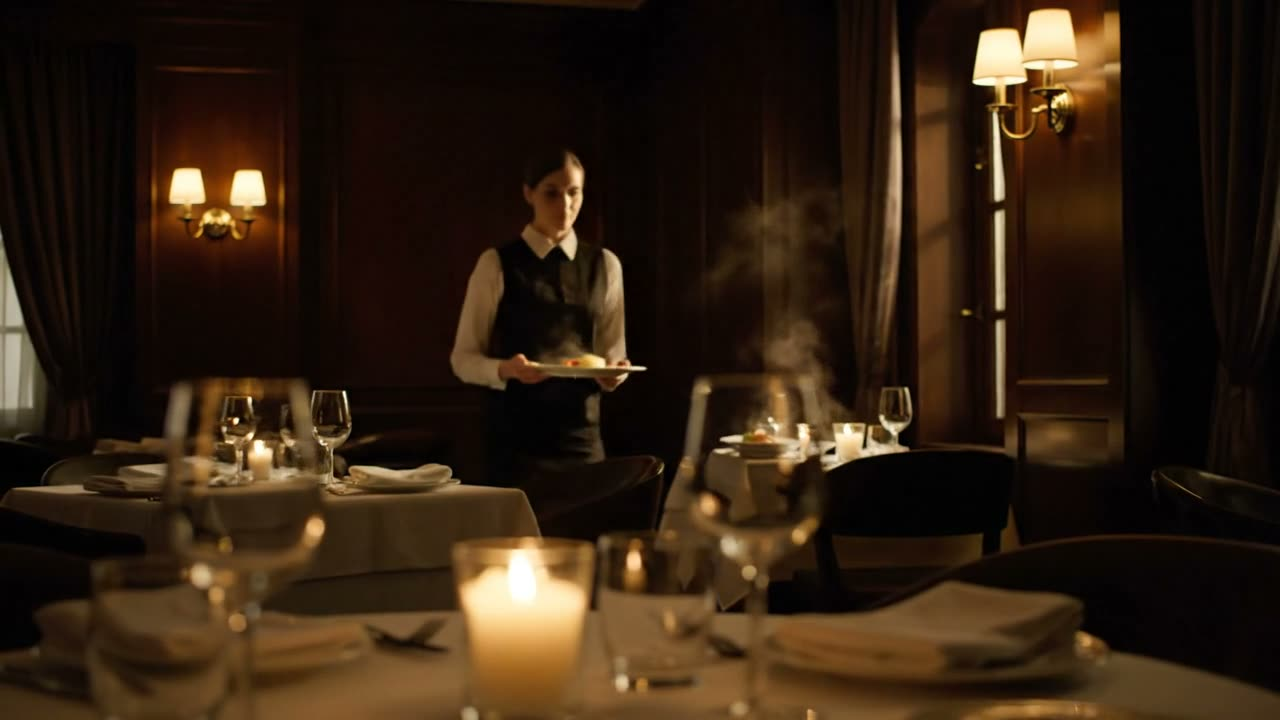
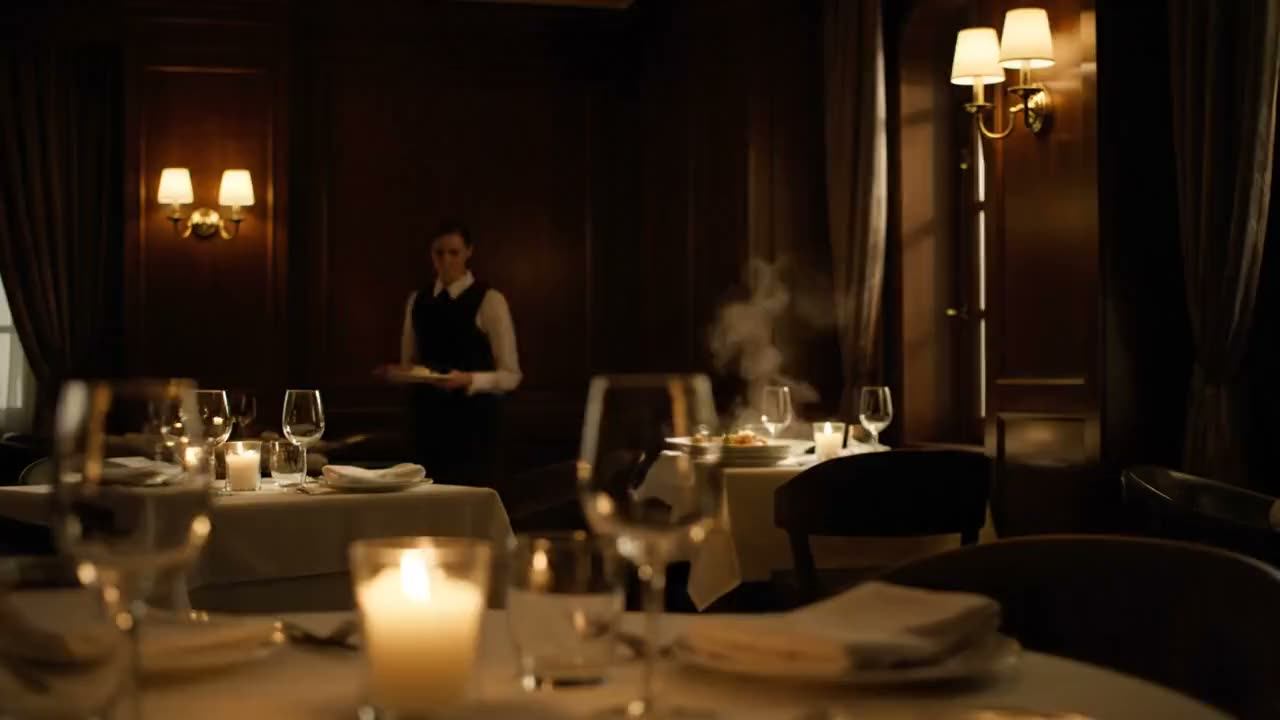
feat(website): light-mode impact pass + CTA/section/triangle/video fixes
Light mode was a dimmed dark theme (additive glows die on white, shadows cut
80%, --shape-strength-boost:2.5 band-aid). Rework it as its own system, plus the
specific fixes flagged in review. Dark mode (:root) is untouched; all theme
work is [html.light]-scoped.

tokens.css (html.light only):
- warm PAPER base (#FBF7F1) + white cards so elevation reads
- real layered, warm-tinted shadows; brand "glow" becomes a warm lift
- deep warm-ink display headings, "sunlight" atmosphere, richer apricot cream
- accent kept AA-safe; crisper borders

Fixes:
- CTA: primary/cta buttons -> solid ink on light (Button.tsx, components.css,
  cookie Accept) - the coral gradient read hot/generic on paper
- Decision-Intelligence section: stronger photo grade (was washed-out) so the
  room reads warm + intentional and the Revenue Pace dashboard has context
- Closing CTA band: the neon coral slab -> a deep warm-espresso close on light
  (consistent with the page's dark bands) + cream primary button
- Speed/Quality/Cost triangle: trust-GREEN convergence core/ring/beams +
  "pick all three" affirmation (the payoff now reads achieved/go, not alarm);
  the three warm edges (constraints) stay warm. Applies in both modes.
- Manifesto ambient video: replace the obvious 8s loop with a continuous ~22s
  narrative - the original clip crossfaded into two new Veo 3 ambient clips
  (busy pass -> the room settles), generated to match the dim-restaurant look.
[…]

diff --git a/src/styles/tokens.css b/src/styles/tokens.css
@@ -185,23 +185,28 @@
    ============================================== */
 
 html.light {
-  /* ─── Foundation ─── */
-  --navy-deep: #FFFFFF;
-  --navy: #FAF7F2;
-  --navy-surface: #F3EEE6;
+  /* ─── Foundation ───
+     Light is its OWN system, not a dimmed dark theme: the page is warm PAPER
+     (not cold #FFF) and cards are pure white, so elevation reads from the
+     surface contrast + real shadows below - the way light UIs earn depth. */
+  --navy-deep: #FBF7F1;   /* warm paper page base (was #FFFFFF, cold) */
+  --navy: #FFFFFF;        /* cards sit brighter than the page → they lift */
+  --navy-surface: #FFFFFF;
 
-  --background: #FFFFFF;
+  --background: #FBF7F1;
   --foreground: #2A2320;
 
-  /* ─── Text Hierarchy ─── */
-  --text-primary: #2A2320;
-  --text-secondary: rgba(42, 35, 32, 0.75);
-  --text-supporting: rgba(42, 35, 32, 0.6);
-  --text-muted: rgba(42, 35, 32, 0.5);
-  --text-faint: rgba(42, 35, 32, 0.15);
-  --muted-grey: #8C7F71;
-  --eyebrow: rgba(42, 35, 32, 0.55);   /* muted warm label on light (warm ink, not coral) */
-  --text-display: #2A2320;             /* display headings = warm ink on light (same as --text-primary) */
+  /* ─── Text Hierarchy ───
+     Deeper warm ink than before → display headings carry real contrast punch
+     on warm paper (the light-mode equivalent of dark's bright display). */
+  --text-primary: #241D17;
+  --text-secondary: rgba(36, 29, 23, 0.78);
+  --text-supporting: rgba(36, 29, 23, 0.62);
+  --text-muted: rgba(36, 29, 23, 0.52);
+  --text-faint: rgba(36, 29, 23, 0.16);
+  --muted-grey: #857869;
+  --eyebrow: rgba(36, 29, 23, 0.58);   /* warm label on light (warm ink, not coral) */
+  --text-display: #1E1711;             /* deep warm ink display headings → more punch in light */
 
   /* ─── Surface Transparency Scale ─── */
   --surface-faint: rgba(42, 35, 32, 0.02);
@@ -209,40 +214,45 @@ html.light {
   --surface-hover: rgba(42, 35, 32, 0.05);
   --surface-emphasis: rgba(42, 35, 32, 0.08);
 
-  /* ─── Shadows & Glows (softer for light) ─── */
-  --glow-blue: 0 0 40px rgba(255, 92, 77, 0.12);
-  --glow-strong: 0 0 60px rgba(255, 92, 77, 0.15), 0 0 100px rgba(233, 162, 74, 0.06);
-  --shadow-card: 0 4px 24px rgba(0, 0, 0, 0.06);
-  --shadow-xl: 0 25px 50px -12px rgba(0, 0, 0, 0.1);
+  /* ─── Shadows & Glows ───
+     On white, additive glows vanish - so light earns depth from layered,
+     warm-tinted SHADOWS (brown, not black), and the brand "glow" becomes a
+     soft warm LIFT under CTAs/cards instead of an invisible halo. */
+  --glow-blue: 0 18px 38px -12px rgba(224, 62, 72, 0.36);
+  --glow-strong: 0 26px 52px -18px rgba(224, 62, 72, 0.34), 0 10px 24px -10px rgba(233, 162, 74, 0.24);
+  --shadow-card: 0 1px 2px rgba(74, 49, 32, 0.06), 0 14px 30px -12px rgba(74, 49, 32, 0.20), 0 36px 66px -28px rgba(74, 49, 32, 0.18);
+  --shadow-xl: 0 40px 82px -28px rgba(74, 49, 32, 0.28), 0 16px 36px -16px rgba(74, 49, 32, 0.18);
 
   /* ─── Borders ─── */
-  --border-default: rgba(42, 35, 32, 0.1);
+  --border-default: rgba(42, 35, 32, 0.14);
   --border-hover: rgba(255, 92, 77, 0.3);
   --border-emphasis: rgba(42, 35, 32, 0.15);
 
-  /* ─── Background Meshes (light versions) ─── */
-  --bg-mesh: radial-gradient(ellipse 80% 60% at 20% 40%, rgba(255,92,77,0.045) 0%, transparent 60%),
-             radial-gradient(ellipse 60% 50% at 80% 60%, rgba(233,162,74,0.04) 0%, transparent 50%),
-             #FFFFFF;
-  --bg-top-glow: radial-gradient(ellipse 100% 40% at 50% 0%, rgba(255,92,77,0.05) 0%, transparent 60%),
-                 #FFFFFF;
-  --bg-center-glow: radial-gradient(ellipse 60% 50% at 50% 50%, rgba(255,92,77,0.04) 0%, transparent 60%),
-                    #FFFFFF;
+  /* ─── Background Meshes (light) ───
+     Warm paper end-stop + a touch more tint so sections carry ambient warmth
+     (the dark theme's atmosphere), instead of reading as cold flat white. */
+  --bg-mesh: radial-gradient(ellipse 85% 60% at 18% 36%, rgba(255,120,80,0.075) 0%, transparent 60%),
+             radial-gradient(ellipse 65% 55% at 82% 62%, rgba(233,162,74,0.07) 0%, transparent 52%),
+             #FBF7F1;
+  --bg-top-glow: radial-gradient(ellipse 110% 46% at 50% 0%, rgba(255,150,90,0.12) 0%, transparent 62%),
+                 #FBF7F1;
+  --bg-center-glow: radial-gradient(ellipse 65% 55% at 50% 50%, rgba(255,120,80,0.06) 0%, transparent 60%),
+                    #FBF7F1;
 
   /* ─── Semantic UI Tokens ─── */
   --surface: #FFFFFF;
-  --surface-alt: #FAF7F2;
-  --surface-raised: #F3EEE6;
+  --surface-alt: #FBF7F1;
+  --surface-raised: #FFFFFF;     /* raised elements go pure white so they lift off the warm paper */
   --text: var(--text-primary);
   --text-secondary-ui: var(--text-secondary);
   --border: var(--border-default);
   --border-strong: var(--border-emphasis);
-  --shadow-color: rgba(0, 0, 0, 0.08);
+  --shadow-color: rgba(74, 49, 32, 0.16);  /* warm-tinted shadow, not flat black */
   --hover-bg: var(--surface-hover);
-  --link-hover: #C8392A;
-  --accent-warm: #C8392A;        /* deeper warm so eyebrow/link text holds contrast on white */
-  --cream: #F1E6D1;              /* deeper/warmer in light mode so relief zones read against white */
-  --cream-edge: #E6D8BD;
+  --link-hover: #CC3A1E;
+  --accent-warm: #CC3A1E;        /* confident warm accent, kept dark enough to hold AA on white */
+  --cream: #F6E4C4;              /* richer apricot cream → warmer relief rhythm in light */
+  --cream-edge: #EAD3A8;
 
   /* ─── Trust (warm olive) - deeper on white so it holds contrast ─── */
   --trust: #6E7C3A;

diff --git a/src/components/home/HomeContent.tsx b/src/components/home/HomeContent.tsx
@@ -176,13 +176,13 @@ export default function HomeContent() {
               alt=""
               fill
               sizes="100vw"
-              className="object-cover object-center hidden [html.light_&]:block opacity-[0.55]"
+              className="object-cover object-center hidden [html.light_&]:block opacity-[0.7]"
             />
             <div
               className="absolute inset-0 hidden [html.light_&]:block"
               style={{
                 background:
-                  'radial-gradient(ellipse 75% 55% at 80% 10%, rgba(255,92,77,0.16) 0%, transparent 52%), radial-gradient(ellipse 85% 65% at 14% 4%, rgba(233,162,74,0.22) 0%, transparent 54%), radial-gradient(ellipse 62% 52% at 50% 40%, rgba(255,250,245,0.86) 0%, rgba(255,246,239,0.42) 46%, transparent 72%), linear-gradient(180deg, rgba(255,246,239,0.32) 0%, rgba(255,255,255,0.55) 60%, #FFFFFF 96%)',
+                  'radial-gradient(ellipse 75% 55% at 80% 10%, rgba(255,92,77,0.22) 0%, transparent 54%), radial-gradient(ellipse 85% 65% at 14% 4%, rgba(233,162,74,0.30) 0%, transparent 56%), radial-gradient(ellipse 56% 46% at 50% 38%, rgba(255,250,245,0.62) 0%, rgba(255,246,239,0.26) 48%, transparent 72%), linear-gradient(180deg, rgba(255,246,239,0.18) 0%, rgba(255,251,247,0.4) 62%, #FBF7F1 96%)',
               }}
             />
             <Image
@@ -193,9 +193,11 @@ export default function HomeContent() {
               sizes="100vw"
               className="object-cover object-center scale-105 opacity-[0.7] [html.light_&]:opacity-0"
             />
-            {/* warm grade - strong caramel/coral so the room reads unmistakably warm (V2 feel) */}
+            {/* warm grade - strong caramel/coral so the room reads unmistakably warm.
+                Kept ON in light too (was disabled) at reduced strength, so the photo
+                reads as an intentional warm room, not a washed-out beige panel. */}
             <div
-              className="absolute inset-0 mix-blend-soft-light opacity-90 [html.light_&]:opacity-0"
+              className="absolute inset-0 mix-blend-soft-light opacity-90 [html.light_&]:opacity-[0.55]"
               style={{
                 background:
                   'radial-gradient(ellipse 85% 75% at 64% 30%, rgba(233,162,74,0.65) 0%, transparent 62%), radial-gradient(ellipse 70% 60% at 18% 88%, rgba(255,92,77,0.5) 0%, transparent 60%)',
@@ -551,16 +553,25 @@ export default function HomeContent() {
             sizes="100vw"
             className="object-cover object-center brightness-[0.5]"
           />
-          {/* warm gradient - the bold "punctuation" jolt that closes the page */}
+          {/* warm gradient - the bold "punctuation" jolt that closes the page.
+              DARK only: on the warm-paper light theme this neon coral slab reads
+              as a jolt that fights the refined surface, so in light it is hidden
+              in favour of a deep warm-espresso close (below). */}
           <div
-            className="absolute inset-0 mix-blend-multiply"
+            className="absolute inset-0 mix-blend-multiply [html.light_&]:hidden"
             style={{ background: 'linear-gradient(135deg, rgba(233,162,74,0.95) 0%, rgba(255,92,77,0.95) 52%, rgba(224,62,72,0.96) 100%)' }}
           />
           <div
-            className="absolute inset-0 opacity-75"
+            className="absolute inset-0 opacity-75 [html.light_&]:hidden"
             style={{ background: 'linear-gradient(135deg, var(--warm-caramel) 0%, var(--warm-coral) 52%, var(--warm-cherry) 100%)' }}
           />
-          <div className="absolute inset-0 bg-[radial-gradient(ellipse_60%_80%_at_50%_0%,rgba(255,255,255,0.22),transparent_60%)]" />
+          {/* LIGHT only: a deep warm-espresso close - dramatic dark-on-paper,
+              consistent with the page's other dark bands, with a faint warm glow. */}
+          <div
+            className="absolute inset-0 hidden [html.light_&]:block"
+            style={{ background: 'linear-gradient(135deg, rgba(26,18,12,0.92) 0%, rgba(58,30,18,0.84) 52%, rgba(20,13,9,0.94) 100%)' }}
+          />
+          <div className="absolute inset-0 bg-[radial-gradient(ellipse_60%_80%_at_50%_0%,rgba(255,255,255,0.22),transparent_60%)] [html.light_&]:bg-[radial-gradient(ellipse_60%_80%_at_50%_0%,rgba(255,150,90,0.18),transparent_62%)]" />
 
           {/* the mark as a layout device - bleeds into the corner, not a sticker */}
           <div aria-hidden className="absolute -right-16 -bottom-24 w-[420px] sm:w-[520px] opacity-[0.12] text-white pointer-events-none">
@@ -582,6 +593,7 @@ export default function HomeContent() {
                 <Button
                   variant="ink"
                   size="lg"
+                  className="[html.light_&]:!bg-[#FBF6EE] [html.light_&]:!text-[#1A140F] [html.light_&]:hover:!bg-white"
                   onClick={() => cta("/demo", "book_demo_footer_cta", { page: "/home" })}
                 >
                   {home.bookDemo}

diff --git a/src/components/home/sections/SectionSpeedQualityCost.tsx b/src/components/home/sections/SectionSpeedQualityCost.tsx
@@ -420,7 +420,9 @@ export function SectionSpeedQualityCost() {
               <div className="inline-flex items-center gap-2 text-[12px] uppercase tracking-[0.18em] text-[var(--text-muted)] line-through decoration-[var(--text-faint)] decoration-1">
                 {copy.oldRule}
               </div>
-              <div className="mt-2 text-[13px] uppercase tracking-[0.18em] text-[var(--warm-coral)] font-bold">
+              {/* trust-green affirmation - the payoff line reads as 'achieved/go',
+                  matching the emerald convergence core (the warm edges = constraints). */}
+              <div className="mt-2 text-[13px] uppercase tracking-[0.18em] text-[#1AA877] [html.light_&]:text-[#0F8A5E] font-bold">
                 {copy.sundaeRule}
               </div>
             </div>
@@ -471,11 +473,13 @@ export function SectionSpeedQualityCost() {
                   <stop offset="55%" stopColor="rgba(255,92,77,0.13)" />
                   <stop offset="100%" stopColor="rgba(255,92,77,0)" />
                 </radialGradient>
-                {/* Convergence-core radial glow */}
+                {/* Convergence-core radial glow - emerald "trust" payoff: where the
+                    three constraints collapse into one win, the core reads as
+                    achieved/go, not alarm (the edges stay warm = the constraints). */}
                 <radialGradient id="coreGlow" cx="50%" cy="50%" r="50%">
-                  <stop offset="0%" stopColor="rgba(255,201,176,0.95)" />
-                  <stop offset="45%" stopColor="rgba(255,132,115,0.45)" />
-                  <stop offset="100%" stopColor="rgba(255,92,77,0)" />
+                  <stop offset="0%" stopColor="rgba(150,231,194,0.95)" />
+                  <stop offset="45%" stopColor="rgba(34,168,120,0.45)" />
+                  <stop offset="100%" stopColor="rgba(22,168,120,0)" />
                 </radialGradient>
                 {/* Top-vertex specular highlight - sharp, focused */}
                 <radialGradient id="triHighlight" cx="50%" cy="20%" r="42%">
@@ -586,7 +590,7 @@ export function SectionSpeedQualityCost() {
                         y1={p.y}
                         x2={CENTROID.x}
                         y2={CENTROID.y}
-                        stroke="#FF8473"
+                        stroke="#16A878"
                         strokeWidth="1.6"
                         strokeLinecap="round"
                         initial={{ opacity: 0 }}
@@ -602,7 +606,7 @@ export function SectionSpeedQualityCost() {
                     cy={CENTROID.y}
                     r="6"
                     fill="none"
-                    stroke="#FF8473"
+                    stroke="#16A878"
                     strokeWidth="1.4"
                     initial={{ opacity: 0, scale: 0.5 }}
                     animate={{ opacity: [0, 0.65, 0], scale: [0.5, 4.2, 5.4] }}
@@ -615,7 +619,7 @@ export function SectionSpeedQualityCost() {
                     cx={CENTROID.x}
                     cy={CENTROID.y}
                     r="4.5"
-                    fill="#FFC9B0"
+                    fill="#96E7C2"
                     filter="url(#tracerGlow)"
                     animate={{ opacity: [0.55, 0.95, 0.55], scale: [1, 1.25, 1] }}
                     transition={{ duration: 3, ease: "easeInOut", repeat: Infinity }}

diff --git a/src/components/ui/Button.tsx b/src/components/ui/Button.tsx
@@ -42,8 +42,9 @@ export const Button: React.FC<ButtonProps> = (props) => {
   const baseStyles = 'inline-flex items-center justify-center font-semibold rounded-xl transition-all duration-200 ease-out focus:outline-none focus-visible:ring-2 focus-visible:ring-offset-2 focus-visible:ring-[#FF5C4D] focus-visible:ring-offset-[var(--navy-deep)]';
 
   const variants = {
-    // Primary - warm signature gradient with coral glow
-    primary: 'bg-gradient-to-r from-[#E9A24A] via-[#FF5C4D] to-[#E03E48] text-white shadow-[0_10px_30px_-10px_rgba(255,92,77,0.5)] hover:shadow-[0_16px_40px_-10px_rgba(255,92,77,0.65)] hover:-translate-y-0.5 active:translate-y-0',
+    // Primary - warm signature gradient with coral glow (dark); a premium solid
+    // ink button on light, where the coral gradient read hot/generic on paper.
+    primary: 'bg-gradient-to-r from-[#E9A24A] via-[#FF5C4D] to-[#E03E48] text-white shadow-[0_10px_30px_-10px_rgba(255,92,77,0.5)] hover:shadow-[0_16px_40px_-10px_rgba(255,92,77,0.65)] hover:-translate-y-0.5 active:translate-y-0 [html.light_&]:bg-none [html.light_&]:bg-[var(--ink)] [html.light_&]:text-white [html.light_&]:shadow-[0_14px_30px_-10px_rgba(26,20,15,0.45)] [html.light_&]:hover:shadow-[0_20px_44px_-12px_rgba(26,20,15,0.55)]',
 
     // Secondary - subtle glass
     secondary: 'bg-[var(--surface-hover)] text-[var(--text-secondary)] border border-[var(--border-default)] hover:bg-[var(--surface-emphasis)] hover:text-[var(--text-primary)] hover:border-[var(--border-emphasis)] hover:-translate-y-0.5 active:translate-y-0',
@@ -57,8 +58,8 @@ export const Button: React.FC<ButtonProps> = (props) => {
     // Ghost - subtle
     ghost: 'text-[var(--text-supporting)] hover:bg-[var(--surface-hover)] hover:text-[var(--text-primary)]',
 
-    // CTA - warm signature gradient with coral glow
-    cta: 'bg-gradient-to-r from-[#E9A24A] via-[#FF5C4D] to-[#E03E48] text-white font-bold shadow-[0_12px_40px_-8px_rgba(255,92,77,0.5)] hover:shadow-[0_18px_50px_-8px_rgba(255,92,77,0.62)] hover:-translate-y-1 active:translate-y-0',
+    // CTA - warm signature gradient with coral glow (dark); solid ink on light.
+    cta: 'bg-gradient-to-r from-[#E9A24A] via-[#FF5C4D] to-[#E03E48] text-white font-bold shadow-[0_12px_40px_-8px_rgba(255,92,77,0.5)] hover:shadow-[0_18px_50px_-8px_rgba(255,92,77,0.62)] hover:-translate-y-1 active:translate-y-0 [html.light_&]:bg-none [html.light_&]:bg-[var(--ink)] [html.light_&]:text-white [html.light_&]:shadow-[0_14px_32px_-10px_rgba(26,20,15,0.46)] [html.light_&]:hover:shadow-[0_22px_48px_-12px_rgba(26,20,15,0.56)]',
 
     // Ink - solid warm-near-black; for primary actions placed on bright warm surfaces (closer)
     ink: 'bg-[var(--ink)] text-white shadow-[0_12px_30px_-10px_rgba(0,0,0,0.55)] hover:-translate-y-1 active:translate-y-0',

diff --git a/src/styles/components.css b/src/styles/components.css
@@ -181,6 +181,15 @@
 .btn-primary:hover { transform: translateY(-2px); box-shadow: var(--glow-strong); }
 .btn-primary:active { transform: translateY(0); }
 
+/* Light mode: primary/CTA buttons become a solid premium ink button on warm
+   paper - the coral gradient read hot/generic on a light surface. Dark keeps
+   the warm signature gradient. */
+html.light .btn-cta,
+html.light .btn-primary {
+  background: var(--ink);
+  color: #FBF6EE;
+}
+
 .btn-secondary {
   display: inline-flex;
   align-items: center;

diff --git a/src/components/CookieConsent.tsx b/src/components/CookieConsent.tsx
@@ -142,7 +142,7 @@ export function CookieConsent() {
           </button>
           <button
             onClick={handleAccept}
-            className="rounded-lg bg-[#FF5C4D] px-4 py-1.5 text-[13px] font-semibold text-white transition-transform hover:-translate-y-px focus:outline-none focus:ring-2 focus:ring-[#FF8473]"
+            className="rounded-lg bg-[#FF5C4D] [html.light_&]:bg-[var(--ink)] px-4 py-1.5 text-[13px] font-semibold text-white transition-transform hover:-translate-y-px focus:outline-none focus:ring-2 focus:ring-[#FF8473]"
           >
             {copy.accept}
           </button>